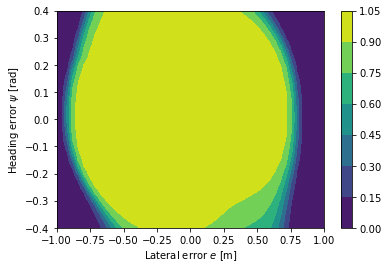
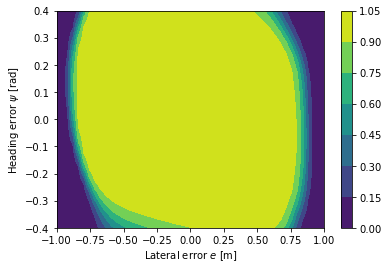
update code of safety probability for town2

Changed region(s): [[0.5258, 0.0296, 0.8041, 0.8593], [0.1546, 0.0296, 0.4948, 0.8593]]

diff --git a/pirl_carla/safety_probability_town2.py b/pirl_carla/safety_probability_town2.py
@@ -1,7 +1,6 @@
 """
 Plot safe probability vs map
 """
-import glob
 import os
 import sys
 import numpy as np
@@ -15,18 +14,22 @@ sys.path.append('.')
 from rl_agent.PIRL_torch import PIRLagent, agentOptions, pinnOptions
 from training_pirl_Town2 import Env, convection_model, diffusion_model, sample_for_pinn
 
-
 ###########################################################################
 # Settings
 
-carla_port = 5000
+carla_port = 3000
 time_step  = 0.05    
 spec_town2 = {'x':-7.39, 'y':312, 'z':10.2, 'pitch':-20, 'yaw':-45, 'roll':0}    
+key        =  ["e", "psi"] # v or psi 
 
+log_dir = 'ITSC2024data/Town2/04291642'
+#log_dir     = 'logs/Town2/07231829'
+#log_dir     = 'logs/Town2/07241652'
+check_point = 50_000 
 
 ###########################################################################
 # Load PIRL agent and carla environment     
-def load_agent(env):
+def load_agent(env, log_dir):
  
     actNum = env.action_num
     obsNum = len(env.reset())
@@ -47,29 +50,12 @@ def load_agent(env):
             return output    
     model = NeuralNetwork().to('cpu')
     
-    agentOp = agentOptions(
-        DISCOUNT   = 1, 
-        #OPTIMIZER  = Adam(learning_rate=1e-4),
-        REPLAY_MEMORY_SIZE = 5000, 
-        REPLAY_MEMORY_MIN  = 1000,
-        MINIBATCH_SIZE     = 32,
-        EPSILON_INIT        = 1, #0.9998**20_000, 
-        EPSILON_DECAY       = 0.9998, 
-        EPSILON_MIN         = 0.01,
-        )
-    
-    pinnOp = pinnOptions(
-        CONVECTION_MODEL = convection_model,
-        DIFFUSION_MODEL  = diffusion_model,   
-        SAMPLING_FUN     = sample_for_pinn,
-        WEIGHT_PDE       = 1e-4, 
-        WEIGHT_BOUNDARY  = 1, 
-        HESSIAN_CALC     = False,
-        )    
-    
+    agentOp = agentOptions()
+    pinnOp = pinnOptions(convection_model, diffusion_model, sample_for_pinn)
     agent  = PIRLagent(model, actNum, agentOp, pinnOp)
+    
     #agent.load_weights('ITSC2024data/Town2/04291642', ckpt_idx=40_000) 
-    agent.load_weights('logs/Town2/07231829', ckpt_idx=50_000) 
+    agent.load_weights(log_dir, ckpt_idx=check_point) 
     
     return agent
 
@@ -103,40 +89,20 @@ def contour_plot(x, y, z, key = ["e", "psi"], filename=None):
     
 ###############################################################################
 if __name__ == '__main__':
-    
-    ###########################
-    # Get nominal trajectory
 
     try:  
-
-        # Get reference state
-        def choose_spawn_point(carla_env):
-            sp_list = carla_env.get_all_spawn_points()    
-            spawn_point = sp_list[1]
-            return spawn_point
-        
-        # carla_env
+        ###################################
+        # Load env and agent
+        ##################################
         rl_env = Env(port=carla_port, time_step=time_step, 
                         custom_map_path = None,
-                        spawn_method    = None,# choose_spawn_point,
+                        spawn_method    = None, 
                         spectator_init  = spec_town2, 
                         spectator_reset = False, 
                         autopilot       = False)
-        rl_env.reset()
-        #rl_env.step()
-        x_vehicle = rl_env.getVehicleState()
-        x_road    = rl_env.getRoadState()
-
-        horizon   = 5
-        x_vehicle = np.array( rl_env.getVehicleState() )
-        x_road    = np.array( rl_env.getRoadState() )
-        s         = np.concatenate([ x_vehicle, x_road, np.array([horizon]) ])
-
-        print(f'x_vehicle: {x_vehicle}')
-        print(f'x_vehicle: {x_road}')
+        agent = load_agent(rl_env, log_dir)
 
         ##############################
-        agent = load_agent(rl_env)
            
         rslu = 50
         psi_scale = 0.4
@@ -145,35 +111,31 @@ if __name__ == '__main__':
         v_list = np.linspace(6, 20, rslu)
         psi_list = np.linspace(-psi_scale, psi_scale, rslu)
         
+        #############################
+        # get waypoints
+        #############################
         interval = 0.5
         next_num = 0
         
-        key =  ["e", "psi"] # v or psi 
+        
         if key[1]=="psi":
             eps = 0.1 # initial distance
         else:
             eps = 0.5 # initial distance
-        multi_test = False
-        n = 10 #number of test points if multi_test == True
         
-        if multi_test == True:
-            refer_list = []
-            vector_list = []
-            waypoints_list = []
-            for i in range(n):
-                refer_list.append(rl_env.test_random_spawn_point(eps = eps + 0.01*i))
-                vector, waypoints = rl_env.fetch_relative_states(wp_transform = refer_list[i], interval= interval, next_num= next_num)
-                vector_list.append(vector)
-                waypoints_list.append(waypoints)
-        else:
-            refer_point = rl_env.test_random_spawn_point(eps = eps)#eps = 0.1/0.5
-            vector, waypoints = rl_env.fetch_relative_states(wp_transform = refer_point, interval= interval, next_num= next_num)        
+        refer_point = rl_env.test_random_spawn_point(eps = eps) #eps = 0.1/0.5
+        vector, waypoints = rl_env.fetch_relative_states(wp_transform = refer_point, interval= interval, next_num= next_num)
+        print(vector)
+        # plt.scatter(vector[0:5], vector[5:10])
+        # plt.xlim([-2,2])
+        # plt.ylim([0,3])        
         
+        ##############################
+        # safety probability
+        #############################
         x_vehicle = np.array( [10, 0, 0] )
-        x_road    = np.array( rl_env.getRoadState() )
-        #print(vector_list)
-        #print(type(vector_list))
-        
+        horizon   = 5
+
         safe_p = np.zeros((len(e_list), len(psi_list)))
         if key[1] == "v":
             y_list = v_list
@@ -189,19 +151,14 @@ if __name__ == '__main__':
                 else:
                     x_road[1] = y_list[j]
                 
-                if multi_test == False:
-                    new_x_road = x_road + vector
-                    s         = np.concatenate([ x_vehicle, new_x_road, np.array([horizon]) ])       
-                    safe_p[i][j]   = agent.get_qs(s).max()
-                else:
-                    for vector in vector_list:
-                        new_x_road = x_road + vector
-                        s         = np.concatenate([ x_vehicle, new_x_road, np.array([horizon]) ])       
-                        safe_p[i][j]   += np.max(agent.get_qs(s))
-                    safe_p[j][i] /= n
+                new_x_road = x_road + vector
+                s          = np.concatenate([ x_vehicle, new_x_road, np.array([horizon]) ])       
+                safe_p[i][j] = agent.get_qs(s).max()
         
+        #################################       
+        # Save and plot results
+        ##################################
         np.savez(f"plot/Town2/safe_prob_{key[0]}_{key[1]}.npz", x=e_list, y=y_list, z=safe_p)
-        
         contour_plot(x=e_list, y=y_list, z=safe_p, key=key,
                      filename=f'plot/Town2/safe_prob_{key[0]}_{key[1]}.png')
 

diff --git a/pirl_carla/rl_env/carla_env.py b/pirl_carla/rl_env/carla_env.py
@@ -503,6 +503,9 @@ class CarEnv:
         
         return x_vehicle
 
+    ###########################################################################
+    # get waypoints (in world coordinate)
+    ###########################################################################
     def fetch_relative_states(self, wp_transform, interval, next_num)->(list, list):
         
         world_map = self.world.get_map()
@@ -523,53 +526,51 @@ class CarEnv:
             wp_transform = waypoint.transform
             #draw_path(wp_transform.location, self.world, life_time=1.0)
             wp_transform_list.append(wp_transform)
-            relative_x.append(wp_transform.location.x-x)
-            relative_y.append(wp_transform.location.y-y)
+            relative_x.append(wp_transform.location.x-x) # lateral direction
+            relative_y.append(wp_transform.location.y-y) # longitudinal direction
         result = relative_x + relative_y
         return result, wp_transform_list
-        
+   
+    ###########################################################################
+    # get vehicle state wrt road
+    ###########################################################################     
     def getRoadState(self):
         
-        # Get vehicle location
+        #########################
+        # Get vehicle location and rotation
+        ##########################
+        # World coordinate
         vehicle_trans = self.vehicle.get_transform()  
         vehicle_locat = vehicle_trans.location
         vehicle_rotat = vehicle_trans.rotation 
-        x   = vehicle_locat.x
-        y   = vehicle_locat.y
-        yaw = vehicle_rotat.yaw
 
         # Get nearby waypoint
         world_map = self.world.get_map()
-        
         way_point = world_map.get_waypoint(vehicle_locat, project_to_road=True)    
         if self.custom_map_path and way_point.lane_width < 20:
             right_way_point = way_point.get_right_lane()
             left_way_point = way_point.get_left_lane()
-            way_point = right_way_point if right_way_point.lane_width > left_way_point.lane_width else left_way_point
-                
-        #assert way_point.lane_width > 20, "waypoint from wrong lane"
-        
-        #draw_path(way_point.transform.location, self.world, life_time=10.0)
-        wp_transform = way_point.transform
-        interval = self.waypoint_itvl
-        next_num = 5
-        vector_list, future_wp_list = self.fetch_relative_states(wp_transform, interval, next_num)
-        x_rd   = way_point.transform.location.x
-        y_rd   = way_point.transform.location.y
-        yaw_rd = way_point.transform.rotation.yaw
-        #road_state = []
-        #for wp_t in future_wp_list:
-        loc_x, loc_y  = self.coordinate_w2l(vehicle_locat, way_point.transform)
+            way_point = right_way_point if right_way_point.lane_width > left_way_point.lane_width else left_way_point        
 
-        # Error variables
-        
-        #e   = np.linalg.norm( [x - x_rd, y - y_rd] )
+        loc_x, loc_y  = self.coordinate_w2l(vehicle_locat, way_point.transform)        
+
+        # relative angle
+        yaw_rd = way_point.transform.rotation.yaw
+        yaw = vehicle_rotat.yaw
         psi = yaw - yaw_rd 
         if psi < -180:
             psi += 360
         if psi > 180:
             psi -= 360
         psi = psi / 180.0 * 3.141592653	
+
+        ############################
+        # get way points
+        ############################        
+        wp_transform = way_point.transform
+        interval = self.waypoint_itvl
+        next_num = 5
+        vector_list, future_wp_list = self.fetch_relative_states(wp_transform, interval, next_num)        
         
         # print(f'veh=[{x:.1f},{y:.1f}], rd=[{x_rd:.1f},{y_rd:.1f}], e={e:.1f}')
         # print(f'yaw={yaw_rd:.1f}, yaw_rd={yaw_rd:.1f}, psi={psi:.1f}')

diff --git a/pirl_carla/training_pirl_Town2.py b/pirl_carla/training_pirl_Town2.py
@@ -167,13 +167,9 @@ if __name__ == '__main__':
         ~/carla/carla_0_9_15/CarlaUE4.sh -carla-rpc-port=3000 &
     """    
 
-    # For more repetitive results
-    random.seed(1)
-    np.random.seed(1)
-
     ###########################################################################
-    # Environment
-    carla_port = 3000
+    # Settings
+    carla_port = 2000
     time_step  = 0.05
 
     restart    = False
@@ -191,7 +187,7 @@ if __name__ == '__main__':
         
         # position and angle
         x_loc    = 0
-        y_loc    = np.random.uniform(-0.5,0.5) #np.random.uniform(-0.8,0.8)
+        y_loc    = np.random.uniform(-0.8,0.8) #np.random.uniform(-0.8,0.8)
         psi_loc  = 0 #np.random.uniform(-20,20)
         # velocity and yaw rate
         vx = np.random.uniform(5,15)
@@ -225,6 +221,8 @@ if __name__ == '__main__':
                 nn.Linear(obsNum, 32),
                 nn.Tanh(),
                 nn.Linear(32, 32),
+                nn.Tanh(),
+                nn.Linear(32, 32), 
                 nn.Tanh(),
                 nn.Linear(32, actNum),
                 nn.Sigmoid()
@@ -285,7 +283,11 @@ if __name__ == '__main__':
     agentOp['RESTART_EP'] = current_ep
 
     ######################################
-    # Train 
+    # Training
+    ######################################
+    random.seed(1)
+    np.random.seed(1)
+
     try:  
         train(agent, env, trainOp)
         

diff --git a/pirl_carla/verification_Town2.py b/pirl_carla/verification_Town2.py
@@ -92,16 +92,17 @@ if __name__ == '__main__':
 
     """
     run carla by: 
-        ~/carla/carla_0_9_15/CarlaUE4.sh -carla-rpc-port=5000 &
+        ~/carla/carla_0_9_15/CarlaUE4.sh -carla-rpc-port=3000 &
     """
 
     ####################################
     # Settings
     ####################################
-    data_dir    = 'logs/Town2/07231829'
+    data_dir    = 'ITSC2024data/Town2/04291642'
+    #data_dir    = 'logs/Town2/07231829'
     check_point = 'latest'
 
-    carla_port = 5000
+    carla_port = 3000
     time_step  = 0.05 
     video_save = None #'plot/Town2/simulation.mp4'
     spec_town2 = {'x':-7.39, 'y':312, 'z':10.2, 'pitch':-20, 'yaw':-45, 'roll':0}  #spectator coordinate  
